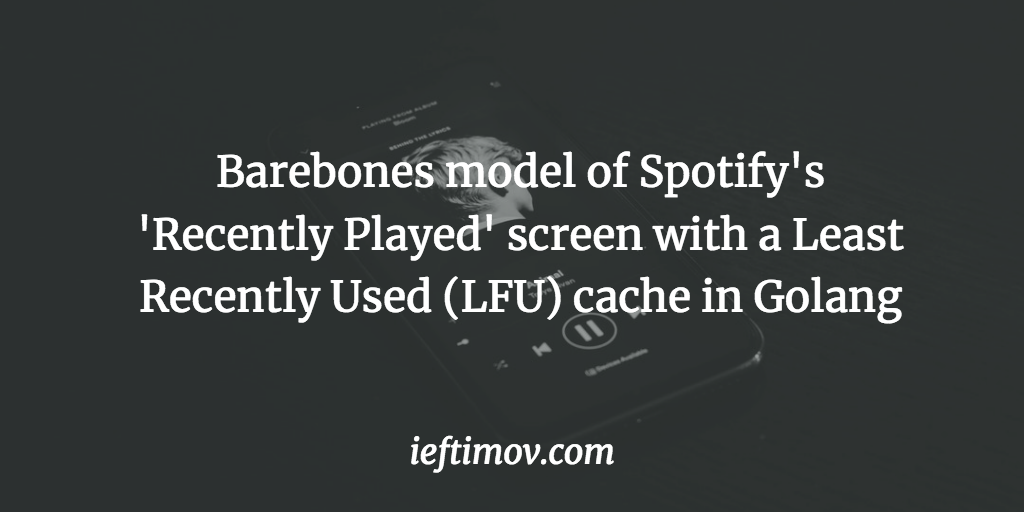
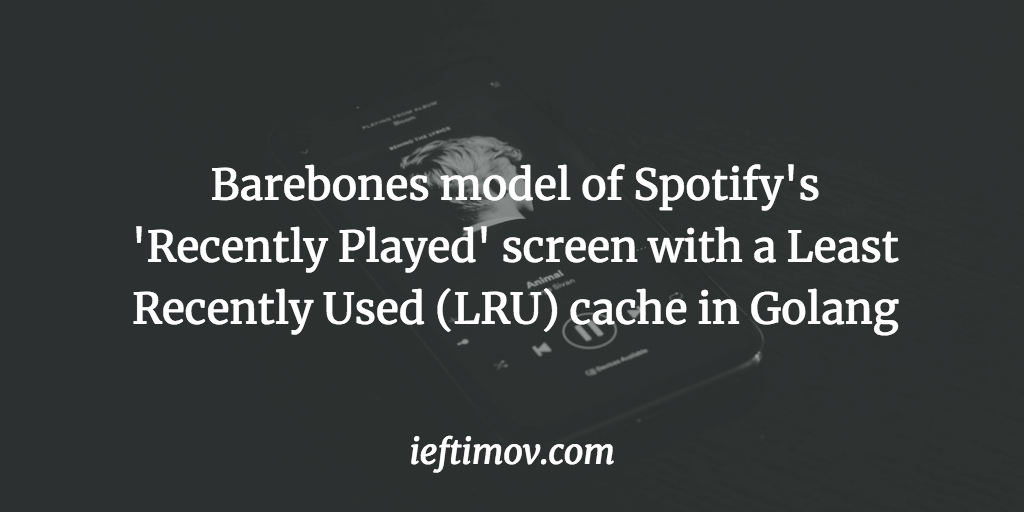
rebuilding site Tue Mar 12 20:53:29 CET 2019

Changed region(s): [[0.125, 0.2812, 0.9062, 0.6562]]

diff --git a/post/spotify-recently-played-least-recently-used-cache-golang/index.html b/post/spotify-recently-played-least-recently-used-cache-golang/index.html
@@ -3,7 +3,7 @@
 <head>
   <meta charset="utf-8">
   <meta http-equiv="X-UA-Compatible" content="IE=edge">
-  <title>Barebones model of Spotify&#39;s &#39;Recently Played&#39; screen with a Least Recently Used (LFU) cache in Golang - Ilija Eftimov</title>
+  <title>Barebones model of Spotify&#39;s &#39;Recently Played&#39; screen with a Least Recently Used (LRU) cache in Golang - Ilija Eftimov</title>
   
 
 <meta name="renderer" content="webkit" />
@@ -62,7 +62,7 @@ Before we go too much into details about the implementation of an LRU cache, let
 <link rel="stylesheet" href="/css/subscribe.css">
 
 
-<meta property="og:title" content="Barebones model of Spotify&#39;s &#39;Recently Played&#39; screen with a Least Recently Used (LFU) cache in Golang" />
+<meta property="og:title" content="Barebones model of Spotify&#39;s &#39;Recently Played&#39; screen with a Least Recently Used (LRU) cache in Golang" />
 <meta property="og:description" content="One of the most widely used caching schemes is Least Recently Used (LRU). Caches that use this eviction strategy will remove the least recently used item when their maximum capacity is reached. That means that such caches have to keep a track of the order of access of the cached items, so it would know what items should be evicted.
 Before we go too much into details about the implementation of an LRU cache, let&rsquo;s first see what are the possible applications of this caching scheme." />
 <meta property="og:type" content="article" />
@@ -72,7 +72,7 @@ Before we go too much into details about the implementation of an LRU cache, let
 <meta property="article:published_time" content="2019-03-11T00:00:00&#43;00:00"/>
 
 
-<meta itemprop="name" content="Barebones model of Spotify&#39;s &#39;Recently Played&#39; screen with a Least Recently Used (LFU) cache in Golang">
+<meta itemprop="name" content="Barebones model of Spotify&#39;s &#39;Recently Played&#39; screen with a Least Recently Used (LRU) cache in Golang">
 <meta itemprop="description" content="One of the most widely used caching schemes is Least Recently Used (LRU). Caches that use this eviction strategy will remove the least recently used item when their maximum capacity is reached. That means that such caches have to keep a track of the order of access of the cached items, so it would know what items should be evicted.
 Before we go too much into details about the implementation of an LRU cache, let&rsquo;s first see what are the possible applications of this caching scheme.">
 
@@ -88,7 +88,7 @@ Before we go too much into details about the implementation of an LRU cache, let
 <meta name="twitter:card" content="summary_large_image"/>
 <meta name="twitter:image" content="https://ieftimov.com/cards/spotify-recently-played-least-recently-used-cache-golang.png"/>
 
-<meta name="twitter:title" content="Barebones model of Spotify&#39;s &#39;Recently Played&#39; screen with a Least Recently Used (LFU) cache in Golang"/>
+<meta name="twitter:title" content="Barebones model of Spotify&#39;s &#39;Recently Played&#39; screen with a Least Recently Used (LRU) cache in Golang"/>
 <meta name="twitter:description" content="One of the most widely used caching schemes is Least Recently Used (LRU). Caches that use this eviction strategy will remove the least recently used item when their maximum capacity is reached. That means that such caches have to keep a track of the order of access of the cached items, so it would know what items should be evicted.
 Before we go too much into details about the implementation of an LRU cache, let&rsquo;s first see what are the possible applications of this caching scheme."/>
 
@@ -295,7 +295,7 @@ if (!doNotTrack) {
           <article class="post bg-white">
     
     <header class="post-header">
-      <h1 class="post-title">Barebones model of Spotify&#39;s &#39;Recently Played&#39; screen with a Least Recently Used (LFU) cache in Golang</h1>
+      <h1 class="post-title">Barebones model of Spotify&#39;s &#39;Recently Played&#39; screen with a Least Recently Used (LRU) cache in Golang</h1>
       
       <div class="post-meta">
         <time datetime="2019-03-11" class="post-time">

diff --git a/categories/index.html b/categories/index.html
@@ -461,7 +461,7 @@ if (!doNotTrack) {
               </time>
               <span class="archive-post-title">
                 <a href="/post/spotify-recently-played-least-recently-used-cache-golang/" class="archive-post-link">
-                  Barebones model of Spotify&#39;s &#39;Recently Played&#39; screen with a Least Recently Used (LFU) cache in Golang
+                  Barebones model of Spotify&#39;s &#39;Recently Played&#39; screen with a Least Recently Used (LRU) cache in Golang
                 </a>
               </span>
             </div>
@@ -1155,7 +1155,7 @@ if (!doNotTrack) {
               </time>
               <span class="archive-post-title">
                 <a href="/post/spotify-recently-played-least-recently-used-cache-golang/" class="archive-post-link">
-                  Barebones model of Spotify&#39;s &#39;Recently Played&#39; screen with a Least Recently Used (LFU) cache in Golang
+                  Barebones model of Spotify&#39;s &#39;Recently Played&#39; screen with a Least Recently Used (LRU) cache in Golang
                 </a>
               </span>
             </div>

diff --git a/index.html b/index.html
@@ -284,7 +284,7 @@ if (!doNotTrack) {
   <header class="post-header">
     <h1 class="post-title">
       
-      <a class="post-link" href="/post/spotify-recently-played-least-recently-used-cache-golang/">Barebones model of Spotify&#39;s &#39;Recently Played&#39; screen with a Least Recently Used (LFU) cache in Golang</a>
+      <a class="post-link" href="/post/spotify-recently-played-least-recently-used-cache-golang/">Barebones model of Spotify&#39;s &#39;Recently Played&#39; screen with a Least Recently Used (LRU) cache in Golang</a>
     </h1>
     
     <div class="post-meta">

diff --git a/post/when-why-least-frequently-used-cache-implementation-golang/index.html b/post/when-why-least-frequently-used-cache-implementation-golang/index.html
@@ -1103,7 +1103,7 @@ will enrich your knowledge of LFU caches and caching in general:</p>
 </svg>
 
             </i>
-            <span class="prev-text nav-default">Barebones model of Spotify&#39;s &#39;Recently Played&#39; screen with a Least Recently Used (LFU) cache in Golang</span>
+            <span class="prev-text nav-default">Barebones model of Spotify&#39;s &#39;Recently Played&#39; screen with a Least Recently Used (LRU) cache in Golang</span>
             <span class="prev-text nav-mobile">Prev</span>
           </a>
         

diff --git a/categories/caching/index.html b/categories/caching/index.html
@@ -293,7 +293,7 @@ if (!doNotTrack) {
       </time>
       <span class="archive-post-title">
         <a href="/post/spotify-recently-played-least-recently-used-cache-golang/" class="archive-post-link">
-          Barebones model of Spotify&#39;s &#39;Recently Played&#39; screen with a Least Recently Used (LFU) cache in Golang
+          Barebones model of Spotify&#39;s &#39;Recently Played&#39; screen with a Least Recently Used (LRU) cache in Golang
         </a>
       </span>
     </div>

diff --git a/categories/golang/index.html b/categories/golang/index.html
@@ -293,7 +293,7 @@ if (!doNotTrack) {
       </time>
       <span class="archive-post-title">
         <a href="/post/spotify-recently-played-least-recently-used-cache-golang/" class="archive-post-link">
-          Barebones model of Spotify&#39;s &#39;Recently Played&#39; screen with a Least Recently Used (LFU) cache in Golang
+          Barebones model of Spotify&#39;s &#39;Recently Played&#39; screen with a Least Recently Used (LRU) cache in Golang
         </a>
       </span>
     </div>

diff --git a/post/index.html b/post/index.html
@@ -293,7 +293,7 @@ if (!doNotTrack) {
       </time>
       <span class="archive-post-title">
         <a href="/post/spotify-recently-played-least-recently-used-cache-golang/" class="archive-post-link">
-          Barebones model of Spotify&#39;s &#39;Recently Played&#39; screen with a Least Recently Used (LFU) cache in Golang
+          Barebones model of Spotify&#39;s &#39;Recently Played&#39; screen with a Least Recently Used (LRU) cache in Golang
         </a>
       </span>
     </div>

diff --git a/tags/caching/index.html b/tags/caching/index.html
@@ -293,7 +293,7 @@ if (!doNotTrack) {
       </time>
       <span class="archive-post-title">
         <a href="/post/spotify-recently-played-least-recently-used-cache-golang/" class="archive-post-link">
-          Barebones model of Spotify&#39;s &#39;Recently Played&#39; screen with a Least Recently Used (LFU) cache in Golang
+          Barebones model of Spotify&#39;s &#39;Recently Played&#39; screen with a Least Recently Used (LRU) cache in Golang
         </a>
       </span>
     </div>

diff --git a/tags/golang/index.html b/tags/golang/index.html
@@ -293,7 +293,7 @@ if (!doNotTrack) {
       </time>
       <span class="archive-post-title">
         <a href="/post/spotify-recently-played-least-recently-used-cache-golang/" class="archive-post-link">
-          Barebones model of Spotify&#39;s &#39;Recently Played&#39; screen with a Least Recently Used (LFU) cache in Golang
+          Barebones model of Spotify&#39;s &#39;Recently Played&#39; screen with a Least Recently Used (LRU) cache in Golang
         </a>
       </span>
     </div>

diff --git a/tags/last-recently-used/index.html b/tags/last-recently-used/index.html
@@ -293,7 +293,7 @@ if (!doNotTrack) {
       </time>
       <span class="archive-post-title">
         <a href="/post/spotify-recently-played-least-recently-used-cache-golang/" class="archive-post-link">
-          Barebones model of Spotify&#39;s &#39;Recently Played&#39; screen with a Least Recently Used (LFU) cache in Golang
+          Barebones model of Spotify&#39;s &#39;Recently Played&#39; screen with a Least Recently Used (LRU) cache in Golang
         </a>
       </span>
     </div>

diff --git a/tags/lru/index.html b/tags/lru/index.html
@@ -293,7 +293,7 @@ if (!doNotTrack) {
       </time>
       <span class="archive-post-title">
         <a href="/post/spotify-recently-played-least-recently-used-cache-golang/" class="archive-post-link">
-          Barebones model of Spotify&#39;s &#39;Recently Played&#39; screen with a Least Recently Used (LFU) cache in Golang
+          Barebones model of Spotify&#39;s &#39;Recently Played&#39; screen with a Least Recently Used (LRU) cache in Golang
         </a>
       </span>
     </div>
